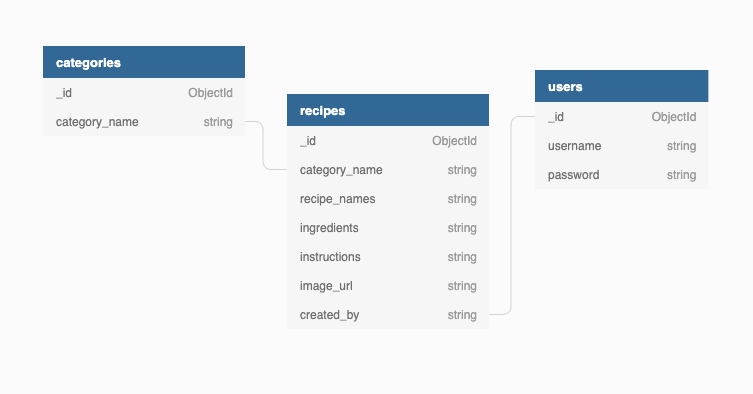
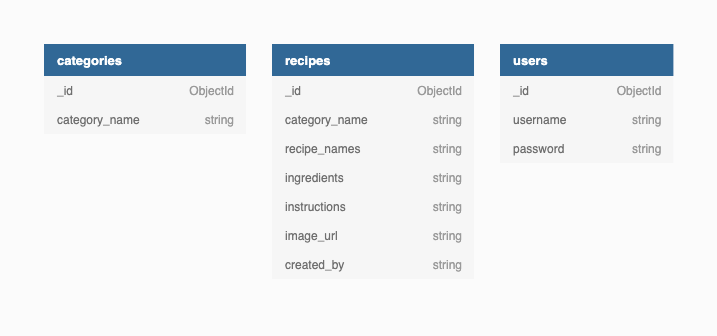
add new image of database in readme

diff --git a/README.md b/README.md
@@ -1,23 +1,25 @@
-# Yum Yum - Baby Food Recipes
+# Yum Yum - Baby Food Recipes  
 
-[A live version of the page can be viewed here](https://baby-food.herokuapp.com/home)
+[A live version of the page can be viewed here](https://baby-food.herokuapp.com/home)  
 
-![mockup image](static/images/README/mockup.png)
+![mockup image](static/images/README/mockup.png)  
 
 
-Yum Yum is a recipe site for baby food. Users can search through existing recipes and create an account where they can upload and store their own recipes and share them with other users. As a new mom I've realized the importance of finding good and healthy recipes for my kid. I've also realized the importance of finding them fast due to lack of time. This is why I wanted to create this website for me and parents alike that could benefit from this service.
+Yum Yum is a recipe site for baby food. Users can search through existing recipes and create an account where they can upload and store their own recipes and share them with other users. As a new mom I've realized the importance of finding good and healthy recipes for my kid. I've also realized the importance of finding them fast due to lack of time. This is why I wanted to create this website for me and parents alike that could benefit from this service.  
 
 ---  
 
-## UX
+## UX  
 
-### The Goals For This Website Is To: 
+### The Goals For This Website Is To:  
+
 - Provide a place where people can easily find good and healthy recipes for babies
 - Be able to create an account to store your own recipes
 - Share baby food recipes with other people
-- Make it easy for users to navigate the site on any device 
+- Make it easy for users to navigate the site on any device   
 
-### User Stories
+### User Stories  
+
 -   As a user I easily want to find good and healthy recipes that I can make for my baby
 -   As a user I want to be able to search for a specific ingredient in the recipes
 -   As a user I want to be able to look for recipes sorted by category
@@ -29,31 +31,33 @@ Yum Yum is a recipe site for baby food. Users can search through existing recipe
 -   As a user I want to be able to delete my recipes
 -   As a site admin I want to be able to add new categories to the site
 -   As a site admin I want to be able to edit categories
--   As a site admin I want to be able to delete categories
+-   As a site admin I want to be able to delete categories  
 
-### Design 
+### Design   
 
 With a potential user in mind being a parent with restricted time searching for recipes they can make for their babies, I wanted to have a minimalistic design and focus on giving the user an easy and quick way of locate what they're looking for. That is why I choose to have the recipes on a card that immidiately shows the recipes when they click on them rather then sending the user to an additional page. This way they can click their way through several recipes to see if it's something that interest them without leaving the main page. 
 ![color palette](static/images/README/recipe-cards.png) 
 
-#### Colors
+#### Colors  
+
 I didn't want to have the classic pastel color scheme that you normally see when it's connected to babies and that is why I choose to have a color palette with calm colors that feels a little bit more sophisticated and also has a good contrast ratio. The name Yum Yum is for me a playful way of saying that something is good when you're talking to a baby about food and also indicates that the website is designed with babies in mind. 
 
 ![color palette](static/images/README/color-palette.png)
 
 #### Typography
 
-The main fonts that I choose for this project is Montserrat and Lato which are two quite simple sans-serif fonts that gives a clean expression and are easy to read. For the name of the website I have used Gluten that with it's round shapes fits well with the kids theme. It's also being used for flash messages to tie the page together. This is a font that I think could feel a little overhelming and unserious if it's used too much so that is why I choose to use it sparingly.
+The main fonts that I choose for this project is Montserrat and Lato which are two quite simple sans-serif fonts that gives a clean expression and are easy to read. For the name of the website I have used Gluten that with it's round shapes fits well with the kids theme. It's also being used for flash messages to tie the page together. This is a font that I think could feel a little overhelming and unserious if it's used too much so that is why I choose to use it sparingly.  
 
-### Wireframes
-Wireframes can be viewed [here](static/images/README/wireframes/wireframes.pdf)
+### Wireframes  
+
+Wireframes can be viewed [here](static/images/README/wireframes/wireframes.pdf)  
 
 ---
 
 ## Features
 ### Existing Features
 
-- **Navbar** 
+- **Navbar**   
     - Each page features a responsive Materialize navbar that’s collapsed to a burger icon when viewing on smaller screens. The navbar has a hover effect so when the user hovers over the different pages the text changes color. In the left corner there is a logo with a link that takes you to the landing page.
     - Users that are not logged in have the following pages in the navbar:
         - HOME
@@ -72,21 +76,22 @@ Wireframes can be viewed [here](static/images/README/wireframes/wireframes.pdf)
         - MANAGE CATEGORIES
         - LOG OUT  
 
-- **Footer**
-        - The footer is displayed on all pages and features links to social media accounts (currently to the main sites for the platforms but will eventually be linked to Yum Yum's social media accounts once they exist)
+- **Footer**  
+    The footer is displayed on all pages and features links to social media accounts (currently to the main sites for the platforms but will eventually be linked to Yum Yum's social media accounts once they exist)
 
-- **Home** - The landing page features a flat illustration picturing a woman feeding a baby that is sitting in her lap. There is also a call to action button with the text *show recipes* that leads to the page with all the recipes so that users have an easy and quick way of finding it.
+- **Home**  
+    The landing page features a flat illustration picturing a woman feeding a baby that is sitting in her lap. There is also a call to action button with the text *show recipes* that leads to the page with all the recipes so that users have an easy and quick way of finding it.
 
-- **Recipes** 
+- **Recipes**   
     The Recipe page features a search bar at the top and below are links to the different categories that the recipes are divided into so you can filter out the category you're intrested in. The recipes are presented in a grid with image cards.
-    - **Search bar**
+    - **Search bar**  
     Allows the user to search for the name of a recipe or an ingredient in the recipe. This will then filter out all the recipes that includes the word that was searched.
-    - **Cards**
+    - **Cards**  
     On the front the user is provided with an image of the recipe followed by the category and then the name. There is also an hover effect when you move the cursor over the cards to highligt which recipe you're currently on. When you click on the card the recipe is displayed. If you're the user who has uploaded the recipe you also have the possibility to edit or delete it.
 
-- **Account** 
+- **Account**   
 On top of the Account page there is a button to Add a recipe and below is all the recipes uploaded by the user.
-    - **Add Recipe**
+    - **Add Recipe**  
     As a registered user you can upload your own recipes. To do this you fill in a form that includes:
         - Recipe Category
         - Recipe Name
@@ -94,49 +99,50 @@ On top of the Account page there is a button to Add a recipe and below is all th
         - Instructions
         - Image
 
-    All fields need to be filled out for the form to be submitted. The recipe is then displayed on the users own account page and on the recipe page.
+        All fields need to be filled out for the form to be submitted. The recipe is then displayed on the users own account page and on the recipe page.
     - **Edit Recipe**
     You can edit your own recipe. The form is prefilled with the information that you have filled out so it's easy to adjust any changes. 
     - **Delete Recipe**
     You can delete your own recipe. When you click on the delete button a confirmation modal pops up to assure you want to delete the recipe and not doing it accidentally.
 
-- **Sign Up** 
+- **Sign Up**  
 The Sign up page features a simple form where the user can pick a username and a password. A request is made to MongoDB to check if the username is already in use. If it's not being used a profile is created and the user is directed to their account page.
 
-- **Log In**
+- **Log In**  
 The log in page also features a simple form where the user type their username and password to log in to their account. If the user doesn't exist or make a typo when writing, a flash message appears that says "Incorrect Username and/or Password".
 
-- **Manage Categories**
+- **Manage Categories**  
 When site admin is logged in there is a page to manage the categories for the recipes. It's possible to either edit or delete the existing categories or to add new ones.
 
 
-### Features Left To Implement
+### Features Left To Implement  
+
 - At the moment there are not so many recipes on the website but eventually it will be a lot more and it could become hard to navigate if everything is on one single page and that is why pagination would be a nice feature to have.
 - To upload your own images of the recipe instead of an URL
 - To save your favourite recipes
 - To rate recipes
 - The possibility for users to delete their own account
 - Add more information about the recipes such as allergies, servings, preparation time and so on
-- A more informative landing page that continues when you scroll with e.g top rated recipes, recipes for different ages or other tips that could be useful for parents
+- A more informative landing page that continues when you scroll with e.g top rated recipes, recipes for different ages or other tips that could be useful for parents  
 
 ---
 
-## Database 
+## Database   
 
 Diagram of my database:
 
-![database](static/images/README/database.png)
-
-
+![database](static/images/README/database.png)  
 
 ---  
 
-## Technologies Used
+## Technologies Used  
 
-### Languages
+### Languages  
+
 - HTML5, CSS3, Javascript and Python3
 
-### Frameworks and Libraries
+### Frameworks and Libraries  
+
 - [Flask](https://flask.palletsprojects.com/en/1.1.x/)
 - [Flask-PyMongo](https://pypi.org/project/Flask-PyMongo/)
 - [pip](https://pip.pypa.io/en/stable/)
@@ -148,7 +154,8 @@ Diagram of my database:
 - [FontAwesome](https://fontawesome.com) 
 - [Google Fonts](https://fonts.google.com) 
 
-### All other tools
+### All other tools  
+
 - [MongoDB](https://www.mongodb.com/atlas/database) - used as database for this project
 - [Heroku](https://dashboard.heroku.com/) - used to deploy the live site
 - [GitPod](https://www.gitpod.io) - used for their IDE while building the website
@@ -166,17 +173,20 @@ Diagram of my database:
 - [W3C Markup Validation Service](https://validator.w3.org) - used to check the HTML pages
 - [W3C CSS Markup Validation Service](https://jigsaw.w3.org/css-validator/) - used to check the CSS file
 - [JSHint](https://jshint.com) - used to check the script.js file
-- [PEP8 online](http://pep8online.com) - used to check the app.py file
+- [PEP8 online](http://pep8online.com) - used to check the app.py file  
 
 ---
 
-## Testing
-Testing information can be found [here](TESTING.md)
+## Testing  
+
+Testing information can be found [here](TESTING.md)  
 
 ---
 
-## Deployment
+## Deployment  
+
 ### Create Project  
+
 This project was created on Github using the following steps: 
 1. Navigate to [GitHub](https://github.com/) and sign in
 2. On the left hand side above the list of your repositories click on the green button that says "New", this will create a new repository
@@ -193,6 +203,7 @@ Before creating the Heroku app you need to add the following files in Gitpod:
 In the Procfile make sure it contains the following line: web: python app.py, and that it is no blank line after it.
 
 ### Deployment to Heroku  
+
 This project was deployed through Heroku using the following steps:
 1. Navigate to [Heroku](https://dashboard.heroku.com/login) and sign in
 2. On the top right corner there is a button that says "New". Click this button and choose the option "Create New App"
@@ -214,6 +225,7 @@ This project was deployed through Heroku using the following steps:
 10. Choose the branch you want to deploy from and then click "Enable Automatic Deploys"
 
 ### How To Run The Code Locally  
+
 To run this project locally you need to create the env.py file using your own variables since these are not provided for security reasons. To have the database connection you'll also need to create your own database collection on MongoDB and connect it to your project.
 
 1. Log in to Github.
@@ -224,6 +236,7 @@ To run this project locally you need to create the env.py file using your own va
 pip install -r requirements.txt
 
 ### Fork Project  
+
 To fork the project follow these steps:
 
 1. Log in to Github
@@ -246,12 +259,11 @@ Code that will fix the validation requirements for Materialize select elements, 
 
 `def is_logged_in` - Function that returns None if the user isn't logged in otherwise returns the username, by mentor Reuben Ferrante
 
-Help with functions for error handling and to make them more efficiently, by mentor Reuben Ferrante 
-
 The lessons from The mini project by Tim Nelson
 
-### Content
-Recipes that I've added comes from these websites (a few moderations were made on some recipes):
+### Content  
+
+Recipes that I've added comes from these websites (a few moderations were made on some recipes):  
 
 [Banana Pancakes](https://babyfoode.com/blog/banana-pancakes-for-baby/)  
 [Oatmeal Porridge](https://www.eatingbirdfood.com/oatmeal-for-babies/)  
